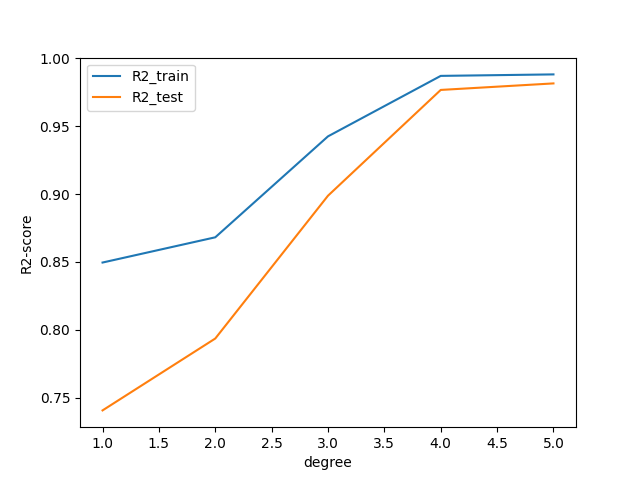
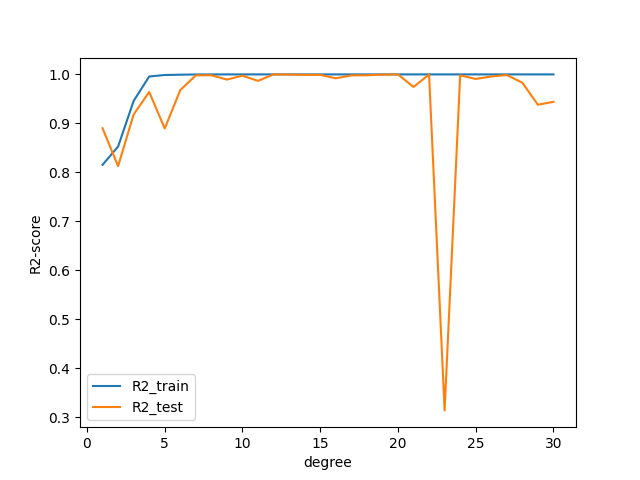
Fixed ols.py by changing inv to pinv.

diff --git a/Project_1/Code/ols.py b/Project_1/Code/ols.py
@@ -58,7 +58,7 @@ def OLSfit(x: np.ndarray, y: np.ndarray, z: np.ndarray, deg: int) -> tuple:
     X_train, X_test, z_train, z_test = train_test_split(X, z, test_size=0.2)
 
     ## Compute coefficients beta
-    beta = np.linalg.inv(X_train.T @ X_train) @ X_train.T @ z_train
+    beta = np.linalg.pinv(X_train.T @ X_train) @ X_train.T @ z_train
     
     ## Compute z_tilde from train data and z_predict from test_data
     z_tilde = X_train @ beta
@@ -71,15 +71,17 @@ def OLSfit(x: np.ndarray, y: np.ndarray, z: np.ndarray, deg: int) -> tuple:
     R2_test = r2_score(z_test,z_predict)
     return MSE_train, MSE_test, R2_train, R2_test, beta
 
+seed = np.random.seed(200)
+
 ## Creating data set
-N = 100 # Number of data points
+N = 50 # Number of data points
 x = np.sort(np.random.rand(N))
 y = np.sort(np.random.rand(N))
 z = FrankeFunction(x, y)
-z_with_noise = z + np.random.normal(0, 1, z.shape)
+z_with_noise = z# + np.random.normal(0, 1, z.shape)
 
 ## Initiate arrays for the values that we want to compute
-deg_num = 5
+deg_num = 30
 degs = np.linspace(1, deg_num, deg_num, dtype=int)
 MSE_train_array = np.zeros(deg_num)
 MSE_test_array = np.zeros(deg_num)
